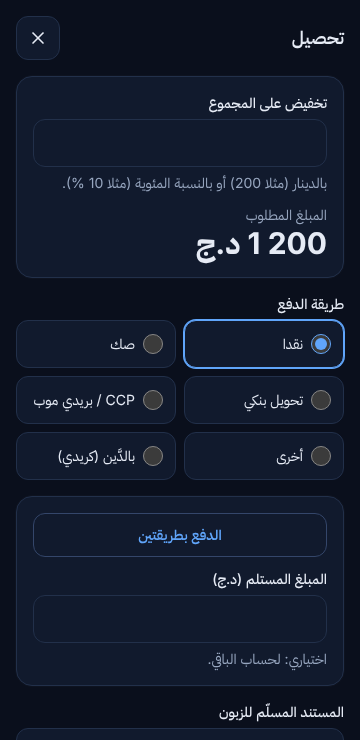
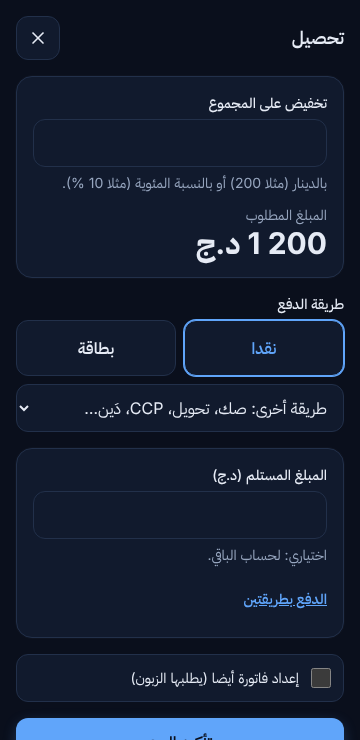
Caisse simplifiée : Espèces et Carte (pas encore activée) en vue, autres moyens dans un menu, facture seulement si cochée ; journal et état
Claude-Session: https://claude.ai/code/session_01QNePhsAh5FHAFVwZvmsAsF

diff --git a/src/components/Caisse.tsx b/src/components/Caisse.tsx
@@ -40,8 +40,10 @@ interface VenteEnAttente {
   /** Absent : tout en espèces. */
   encaisse?: Encaisse[];
 }
-type ChoixPaiement = ModeEncaissement | 'credit';
-const CHOIX: readonly ChoixPaiement[] = [...MODES_ENCAISSEMENT, 'credit'];
+// « Carte » est affichée mais pas encore activée : elle ne peut pas servir à valider une vente.
+type ChoixPaiement = ModeEncaissement | 'credit' | 'carte';
+/** Moyens rangés dans le menu déroulant, pour garder l'écran simple (espèces et carte restent en vue). */
+const AUTRES_CHOIX: readonly ChoixPaiement[] = [...MODES_ENCAISSEMENT.filter((m) => m !== 'especes'), 'credit'];
 
 /** « 500 » → 500 DA ; « 10 % » → 10 % de la base. Null si la saisie est fausse ; 0 si vide. */
 function lireRemise(saisie: string, base: number): number | null {
@@ -174,6 +176,7 @@ export function Caisse({ articles, magasin, remises }: { articles: ArticleCaisse
   /** Sommes reçues selon le choix, ou un message d'erreur. Absent : tout en espèces. */
   function encaissement(): { encaisse?: Encaisse[]; especes: number } | { erreur: string } {
     const ref = reference.trim() || undefined;
+    if (choix === 'carte') return { erreur: t('carteInactive') };
     if (choix === 'credit') {
       const paye = payeMaintenant.trim() ? analyserMontant(payeMaintenant) : 0;
       if (paye === null || paye >= total) return { erreur: t('payeMaintenantFaux') };
@@ -182,7 +185,7 @@ export function Caisse({ articles, magasin, remises }: { articles: ArticleCaisse
     if (second) {
       const m2 = analyserMontant(second.montant);
       if (m2 === null || m2 <= 0 || m2 >= total || second.mode === choix) return { erreur: t('secondFaux') };
-      const premier = { mode: choix, montant: total - m2, reference: ref };
+      const premier = { mode: choix as ModeEncaissement, montant: total - m2, reference: ref };
       return { encaisse: [premier, { mode: second.mode, montant: m2 }], especes: choix === 'especes' ? total - m2 : second.mode === 'especes' ? m2 : 0 };
     }
     if (choix === 'especes') return { especes: total };
@@ -377,17 +380,23 @@ export function Caisse({ articles, magasin, remises }: { articles: ArticleCaisse
               {sousTotal !== total ? <p className="text-sm text-doux">{t('sousTotal')} : <span className="line-through">{formaterMontant(sousTotal, langue)}</span></p> : null}
               <div><p className="text-sm text-doux">{t('aPayer')}</p><p className="text-3xl font-bold">{formaterMontant(total, langue)}</p></div>
             </Carte>
-            <fieldset className="flex flex-col gap-2">
+            <fieldset className="flex min-w-0 flex-col gap-2">
               <legend className="mb-1.5 text-sm font-medium">{t('modePaiement')}</legend>
-              <div className="grid grid-cols-2 gap-2 sm:grid-cols-3">
-                {CHOIX.map((c) => (
-                  <label key={c} className={`flex min-h-12 cursor-pointer items-center gap-2 rounded-xl border bg-surface px-3 ${choix === c ? 'border-prim ring-1 ring-prim' : 'border-trait'}`}>
-                    <input type="radio" name="choix" checked={choix === c} onChange={() => { setChoix(c); if (c === 'credit') setSecond(null); }} className="size-5 accent-prim" />
-                    <span className="text-sm">{t(`mode_${c}`)}</span>
+              {/* Les deux moyens de tous les jours en vue ; les autres dans un menu déroulant. */}
+              <div className="grid grid-cols-2 gap-2">
+                {(['especes', 'carte'] as const).map((c) => (
+                  <label key={c} className={`flex min-h-14 cursor-pointer items-center justify-center gap-2 rounded-xl border bg-surface px-3 text-base font-semibold ${choix === c ? 'border-prim bg-prim-pale text-prim ring-1 ring-prim' : 'border-trait'}`}>
+                    <input type="radio" name="choix" checked={choix === c} onChange={() => { setChoix(c); setSecond(null); }} className="sr-only" />
+                    {t(`mode_${c}`)}
                   </label>
                 ))}
               </div>
+              <select aria-label={t('autreMoyen')} value={AUTRES_CHOIX.includes(choix) && choix !== 'carte' ? choix : ''} onChange={(e) => { const c = (e.target.value || 'especes') as ChoixPaiement; setChoix(c); if (c === 'credit') setSecond(null); }} className={`min-h-12 w-full min-w-0 rounded-xl border bg-surface px-3 text-base ${AUTRES_CHOIX.includes(choix) && choix !== 'carte' ? 'border-prim ring-1 ring-prim' : 'border-trait'}`}>
+                <option value="">{t('autreMoyen')}</option>
+                {AUTRES_CHOIX.filter((c) => c !== 'carte').map((c) => <option key={c} value={c}>{t(`mode_${c}`)}</option>)}
+              </select>
             </fieldset>
+            {choix === 'carte' ? <Message ton="info">{t('carteInactive')}</Message> : (
             <Carte className="flex flex-col gap-3">
               {choix === 'credit' ? (
                 <>
@@ -406,11 +415,9 @@ export function Caisse({ articles, magasin, remises }: { articles: ArticleCaisse
                         </select>
                       </label>
                       <Champ libelle={t('montantSecond')} value={second.montant} onChange={(e) => setSecond({ ...second, montant: e.target.value })} inputMode="decimal" dir="ltr" maxLength={14} autoComplete="off" aide={t('montantSecondAide', { mode: t(`mode_${choix}`) })} />
-                      <button type="button" onClick={() => setSecond(null)} className={classeBouton.secondaire}>{t('unSeulMoyen')}</button>
+                      <button type="button" onClick={() => setSecond(null)} className="min-h-11 self-start text-sm font-semibold text-prim underline">{t('unSeulMoyen')}</button>
                     </div>
-                  ) : (
-                    <button type="button" onClick={() => setSecond({ mode: choix === 'especes' ? 'ccp' : 'especes', montant: '' })} className={classeBouton.secondaire}>{t('deuxMoyens')}</button>
-                  )}
+                  ) : null}
                 </>
               )}
               {partEspeces > 0 ? (
@@ -419,16 +426,17 @@ export function Caisse({ articles, magasin, remises }: { articles: ArticleCaisse
                   {rendu !== null && rendu >= partEspeces ? <p className="text-lg font-bold text-prim">{t('aRendre')} : {formaterMontant(rendu - partEspeces, langue)}</p> : null}
                 </>
               ) : null}
+              {/* Payer avec deux moyens : rare, donc discret. */}
+              {!second && choix !== 'credit' ? (
+                <button type="button" onClick={() => setSecond({ mode: choix === 'especes' ? 'ccp' : 'especes', montant: '' })} className="min-h-11 self-start text-sm font-semibold text-prim underline">{t('deuxMoyens')}</button>
+              ) : null}
             </Carte>
-            <fieldset className="flex flex-col gap-2">
-              <legend className="mb-1.5 text-sm font-medium">{t('document')}</legend>
-              {[false, true].map((f) => (
-                <label key={String(f)} className="flex min-h-12 cursor-pointer items-center gap-3 rounded-xl border border-trait bg-surface px-3">
-                  <input type="radio" name="document" checked={facture === f} onChange={() => setFacture(f)} className="size-5 accent-prim" />
-                  <span className="text-sm">{t(f ? 'avecFacture' : 'avecTicket')}</span>
-                </label>
-              ))}
-            </fieldset>
+            )}
+            {/* Un ticket de caisse est toujours remis ; la facture seulement si le client la demande. */}
+            <label className="flex min-h-12 cursor-pointer items-center gap-3 rounded-xl border border-trait bg-surface px-3">
+              <input type="checkbox" checked={facture} onChange={(e) => setFacture(e.target.checked)} className="size-5 accent-prim" />
+              <span className="text-sm">{t('genererFacture')}</span>
+            </label>
             {facture || choix === 'credit' ? (
               <Carte className="flex flex-col gap-3">
                 {choix === 'credit' ? <p className="text-sm text-doux">{t('clientCredit')}</p> : null}
@@ -445,7 +453,7 @@ export function Caisse({ articles, magasin, remises }: { articles: ArticleCaisse
               </Carte>
             ) : null}
             {message ? <Message ton={message.ton}>{message.texte}</Message> : null}
-            <button type="button" onClick={valider} disabled={envoi} className={classeBouton.principal}>{envoi ? t('envoi') : t('valider')}</button>
+            <button type="button" onClick={valider} disabled={envoi || choix === 'carte'} className={classeBouton.principal}>{envoi ? t('envoi') : t('valider')}</button>
           </div>
         </div>
       ) : null}

diff --git a/tests/e2e/ventes.spec.ts b/tests/e2e/ventes.spec.ts
@@ -112,7 +112,7 @@ test('facture à la caisse, et vente qui passe même si le stock connu manque', 
   await salim.getByRole('button', { name: 'Ajouter un : Thé vert' }).click();
   await expect(salim.getByText('stock connu : 0')).toBeVisible();
   await salim.getByRole('button', { name: 'Encaisser' }).click();
-  await salim.getByLabel('Facture (le client la demande)').check();
+  await salim.getByLabel('Faire aussi une facture (le client la demande)').check();
   await salim.getByRole('button', { name: 'Valider la vente' }).click();
   await expect(salim.locator('p[role=alert]')).toContainText('Indiquez le nom du client');
   await salim.getByLabel('Nom du client').fill('Sarl Atlas');
@@ -328,7 +328,7 @@ test('TVA : une fois activée, la facture sépare le hors taxe et la taxe', asyn
     await salim.getByRole('button', { name: new RegExp(produit === 'café' ? 'Café moulu' : 'Thé vert') }).click();
   }
   await salim.getByRole('button', { name: 'Encaisser' }).click();
-  await salim.getByLabel('Facture (le client la demande)').check();
+  await salim.getByLabel('Faire aussi une facture (le client la demande)').check();
   await salim.getByLabel('Nom du client').fill('Client TVA');
   await salim.getByRole('button', { name: 'Valider la vente' }).click();
   await salim.getByRole('link', { name: 'Voir le document' }).click();

diff --git a/tests/e2e/suivi-ajouts.spec.ts b/tests/e2e/suivi-ajouts.spec.ts
@@ -117,7 +117,11 @@ test('vente à crédit : le client doit, il paie plus tard en une fois', async (
   await karima.getByRole('button', { name: /Sucre 1 kg/ }).click();
   await karima.getByRole('button', { name: 'Ajouter un : Sucre 1 kg' }).click();
   await karima.getByRole('button', { name: 'Encaisser' }).click();
-  await karima.locator('label', { hasText: 'À crédit' }).click();
+  // La carte est visible mais pas encore activée : la vente ne peut pas être validée avec elle.
+  await karima.locator('label', { hasText: 'Carte' }).click();
+  await expect(karima.getByText('Le paiement par carte n\'est pas encore activé. Choisissez un autre moyen.')).toBeVisible();
+  await expect(karima.getByRole('button', { name: 'Valider la vente' })).toBeDisabled();
+  await karima.getByRole('combobox', { name: /Autre moyen/ }).selectOption('credit');
   await karima.getByRole('button', { name: 'Valider la vente' }).click();
   await expect(karima.locator('p[role=alert]')).toHaveText('Pour une vente à crédit, indiquez le nom du client.');
   await karima.getByLabel('Payé maintenant en espèces (DA)').fill('40');

diff --git a/docs/journal/ETAT.md b/docs/journal/ETAT.md
@@ -1,17 +1,17 @@
 # État du projet
 
-Dernière mise à jour : 18/11/2026 — lot d'ajouts n° 1 terminé (bilan `docs/ajouts-1/02-bilan.md`), sur la branche `claude/gracious-euler-kwf1eo`, pas encore dans `main`.
+Dernière mise à jour : 18/11/2026 — lot d'ajouts n° 1 terminé (bilan `docs/ajouts-1/02-bilan.md`) et caisse simplifiée ; **mis dans `main`** (identique à `claude/gracious-euler-kwf1eo`).
 
 ## Où on en est
 
 - **Les 8 étapes sont construites et testées.** Étapes 0 à 7 validées par le propriétaire ; il a choisi de tout vérifier à la fin.
 - **Étape 8 (sécurité, installation, exploitation) : terminée.** Bilan : `docs/etape-8/02-bilan.md`.
 - **À faire par le propriétaire maintenant** : `docs/VERIFICATION-FINALE.md` (tout ce qu'il faut essayer, et les questions à trancher), en installant d'abord le serveur avec `docs/GUIDE-INSTALLATION.md`.
-- **`main` est à jour** : identique à la branche de travail `claude/wizardly-newton-jszkps`. Le guide installe depuis `main`.
+- **`main` est à jour** : identique à la branche de travail `claude/gracious-euler-kwf1eo`. Le guide installe depuis `main`.
 - **Essai en ligne (18/11/2026)** : VPS Contabo `155.133.198.241` (hors d'Algérie, données de démonstration seulement), copie de test en service sur `https://test.155-133-198-241.sslip.io`, compte administrateur créé. **Le site réel (`./deployer.sh prod`) n'est pas encore lancé** ; alertes ntfy et `installer.sh cron` pas encore faits. Les secrets restent sur le serveur (`/srv/hanout/deploiement/secrets/`) ; la clé privée de sauvegarde de prod est copiée chez le propriétaire mais **pas encore effacée du serveur**.
 - **Notifications (18/11/2026)** : ouvrir une notification la marque comme lue (migration 0010). À mettre sur le serveur avec la même commande que ci-dessous.
 - **Revue d'ensemble (18/11/2026)**, mise dans `main` avec l'accord du propriétaire : un inconnu ne peut plus bloquer le compte d'un commerçant (blocage par adresse ou appareil, appareils reconnus), code de double authentification à usage unique (migration 0011), caisse avec la grille de tous les produits (les plus vendus en haut), menu complet sur ordinateur, langue choisie dans « Plus ». `deployer.sh` rappelle d'effacer la clé privée tant qu'elle est sur le serveur. Détail dans le journal.
-- **Lot d'ajouts n° 1 (18/11/2026)**, demandé par le propriétaire après la revue des modules (`docs/revue-modules/01-rapport.md`) : moyens de paiement (timbre seulement sur les espèces), remises, retour d'une partie (avoir partiel), vente à crédit et versements, 1 541 communes, pixel Facebook/TikTok (désactivé par défaut), fournisseurs et arrivages (coût moyen pondéré), argent des colis livrés, dépenses et bénéfice net, 6 photos par produit, export dans Factures, barre du bas au choix. Migrations 0012 à 0017. 174 tests et 86 parcours passent. **Sur la branche de travail seulement** : à mettre dans `main` avec l'accord du propriétaire, puis sur le serveur (`git pull` puis `./deployer.sh test` : les migrations passent toutes seules).
+- **Lot d'ajouts n° 1 (18/11/2026)**, demandé par le propriétaire après la revue des modules (`docs/revue-modules/01-rapport.md`) : moyens de paiement (timbre seulement sur les espèces), remises, retour d'une partie (avoir partiel), vente à crédit et versements, 1 541 communes, pixel Facebook/TikTok (désactivé par défaut), fournisseurs et arrivages (coût moyen pondéré), argent des colis livrés, dépenses et bénéfice net, 6 photos par produit, export dans Factures, barre du bas au choix. Migrations 0012 à 0017. 174 tests et 86 parcours passent. Caisse simplifiée à sa demande (Espèces / Carte « pas encore activée » / menu déroulant ; facture seulement si cochée). **Dans `main`** : à mettre sur le serveur (`git pull` puis `./deployer.sh test` : les migrations 0012 à 0017 passent toutes seules).
 - **Refonte visuelle (18/11/2026)** : blanc, contours bleutés, bleu principal, sombre bleu nuit, police Inter. Voir `docs/refonte-visuelle/01-recherche.md`. Pour l'avoir sur le serveur : `cd /srv/hanout && git pull && cd deploiement && ./deployer.sh test`.
 
 ## Façon de travailler (décidée par le propriétaire le 16/11/2026)
@@ -24,7 +24,7 @@ Dernière mise à jour : 18/11/2026 — lot d'ajouts n° 1 terminé (bilan `docs
 
 ## Prochaine action
 
-- **Lot d'ajouts n° 1** : faire essayer au propriétaire (liste dans `docs/ajouts-1/02-bilan.md`), lui demander s'il veut le mettre dans `main`. Questions ouvertes : « voir comme le commerçant » (vraie boutique en lecture seule, ou seulement ses écrans sans données ? rien codé tant qu'il n'a pas répondu), TPE, pixel, commandes abandonnées, timbre d'un paiement fait plus tard (comptable). Elles sont aussi dans `docs/VERIFICATION-FINALE.md` (questions 9 à 13).
+- **Lot d'ajouts n° 1** : faire essayer au propriétaire (liste dans `docs/ajouts-1/02-bilan.md`), le mettre sur le serveur de test. Questions ouvertes : « voir comme le commerçant » (vraie boutique en lecture seule, ou seulement ses écrans sans données ? rien codé tant qu'il n'a pas répondu), activation de la carte (plus tard), pixel, commandes abandonnées, timbre d'un paiement fait plus tard (comptable). Elles sont aussi dans `docs/VERIFICATION-FINALE.md` (questions 9 à 13).
 0. La revue du 18/11 est dans `main` : la mettre sur le serveur (`git pull` puis `./deployer.sh test`) et recueillir l'avis du propriétaire. **Le propriétaire doit effacer la clé privée du serveur** : `rm /srv/hanout/deploiement/secrets/*/CLE-PRIVEE-A-RECUPERER.asc` (après avoir vérifié qu'il en a bien une copie).
 1. Faire mettre à jour la copie de test du VPS (`git pull` puis `./deployer.sh test`), recueillir l'avis du propriétaire sur le nouveau design, puis lancer `./deployer.sh prod`, `./outils.sh prod admin …`, les alertes ntfy et `./installer.sh cron`, et faire effacer les clés privées du serveur.
 2. Obtenir les réponses du propriétaire aux questions de `docs/VERIFICATION-FINALE.md` (en particulier : longueur des mots de passe des commerçants). Proposition faite pour un essai gratuit : Oracle Cloud « Always Free » + adresse sslip.io, avec des données de démonstration seulement.

diff --git a/docs/ajouts-1/02-bilan.md b/docs/ajouts-1/02-bilan.md
@@ -29,6 +29,14 @@ Pas fait, à sa demande : l'alerte de stock sur le téléphone. En attente de sa
 | + | **Export pour le comptable depuis Factures** (bouton « Exporter » en haut) ; accessible avec le module Factures ou Rapports ; colonne « Reste dû » dans `clients.csv` | Factures |
 | + | **Barre du bas au choix** : chaque personne choisit ses 4 entrées parmi ce qu'elle peut ouvrir ; « Plus » reste à la fin ; par défaut Accueil, Caisse, Scan, Stock, complétée par Commandes si la caisse n'est pas ouverte | Plus › Barre du bas ; Réglages › Barre du bas |
 
+### Retouche de la caisse demandée par le propriétaire (18/11/2026)
+
+- Écran d'encaissement simplifié : **Espèces** et **Carte** en gros boutons ; chèque, virement, CCP / BaridiMob, autre et
+  « À crédit » dans un **menu déroulant** ; « Payer avec deux moyens » devient un lien discret.
+- **Carte** : visible mais **pas encore activée** (« Le paiement par carte n'est pas encore activé. Choisissez un autre
+  moyen. »), la vente ne peut pas être validée avec. Rien n'est enregistré ni traité ; à activer plus tard.
+- Un **ticket de caisse** est toujours remis ; la facture seulement en cochant « Faire aussi une facture (le client la demande) ».
+
 ## Règles garanties par la base
 
 - Un paiement, un arrivage, ses lignes et un paiement de fournisseur ne se modifient ni ne s'effacent.
@@ -56,7 +64,7 @@ La reprise des anciennes ventes a été vérifiée : chaque vente payée, reçu 
 ## Pas fait, ou différent
 
 - **« Voir comme le commerçant »** : en attente de votre réponse (question ci-dessous).
-- **Moyen « TPE (terminal de la banque) »** : pas ajouté, question encore ouverte.
+- **Carte** : bouton visible à la caisse, pas encore activé (décision du propriétaire : on le fera plus tard).
 - **Timbre d'un paiement fait plus tard en espèces** (vente à crédit réglée en espèces) : pas de timbre ajouté, la facture étant figée. À confirmer avec un comptable.
 - **Un retour partiel d'un colis pas encore expédié** n'est pas possible : on modifie la commande, ou on l'annule.
 - **Versements** : le prix réel payé au transporteur ne remplace pas encore les frais de livraison dans la marge (les frais retenus sont gardés à part).

diff --git a/docs/journal/JOURNAL.md b/docs/journal/JOURNAL.md
@@ -2,6 +2,14 @@
 
 Entrées les plus récentes en haut. Une entrée par action importante.
 
+## 18/11/2026 — Caisse simplifiée, puis lot d'ajouts n° 1 mis dans `main`
+
+- Demande du propriétaire : encaissement simple et rapide. Espèces et Carte en gros boutons, les autres moyens (chèque, virement, CCP, autre, à crédit) dans un menu déroulant, « deux moyens » en lien discret ; ticket toujours, facture seulement si on coche « Faire aussi une facture ».
+- **Carte** : « pas encore activée » (décision du propriétaire, à faire plus tard). Une première version qui ajoutait un moyen « carte » en base (migration 0018) a été arrêtée à sa demande, annulée dans la base de travail et supprimée : rien n'est enregistré pour la carte.
+- Défaut corrigé : le menu et le bouton Carte débordaient de l'écran (un `fieldset` s'élargit au texte le plus long ; `min-w-0`).
+- Tests : 174 ✅ ; 86 parcours ✅ (un 404 aléatoire déjà connu vu une fois dans `ventes.spec.ts`, absent sur deux relances).
+- **Mis dans `main` avec l'accord du propriétaire** (« Et après met sur main »).
+
 ## 18/11/2026 — Lot d'ajouts n° 1 : les 10 ajouts de la revue, export dans Factures, barre du bas au choix
 
 - **Décision du propriétaire** : faire les ajouts 1 à 10 de la revue ; seul déplacement : l'export pour le comptable (ajouté dans Factures) ; réglage pour choisir les 4 entrées de la barre du bas ; pas d'alerte de stock sur le téléphone. Questions encore ouvertes : TPE, pixel, commandes abandonnées (choix par défaut prudents appliqués), « voir comme le commerçant » (question reposée : vraie boutique en lecture seule ou écrans sans données ?), pas codé.

diff --git a/docs/VERIFICATION-FINALE.md b/docs/VERIFICATION-FINALE.md
@@ -93,7 +93,7 @@ plusieurs photos, barre du bas, export depuis Factures.
 | 7 | **Déclaration à l'ANPDP** (loi 18-07 / 25-11) | Démarche à faire de votre côté |
 | 8 | **Facture d'abonnement** de vous au commerçant, rappels par SMS ou e-mail | Plus tard |
 | 9 | **« Voir comme le commerçant »** : voir son vrai compte en lecture seule (pour l'aider), ou seulement ses écrans sans ses données ? | Pas fait, en attente de votre réponse |
-| 10 | **Moyen « TPE (terminal de la banque) »** à la caisse (on note seulement le moyen, aucune carte n'entre) | Pas ajouté |
+| 10 | ~~Moyen carte à la caisse~~ | **Tranché le 18/11/2026** : bouton « Carte » visible, « pas encore activé », à faire plus tard |
 | 11 | **Pixel publicitaire** : désactivé par défaut, activé par le commerçant, mention dans la boutique (choix appliqué) — d'accord ? | Désactivé par défaut |
 | 12 | **Commandes abandonnées** (garder le téléphone d'un acheteur qui n'a pas validé) | Pas fait |
 | 13 | **Timbre** : seulement sur la part payée en espèces au moment de la vente ; rien sur un paiement plus tard (à confirmer avec un comptable) | Appliqué ainsi |
